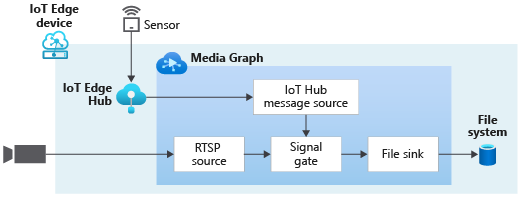
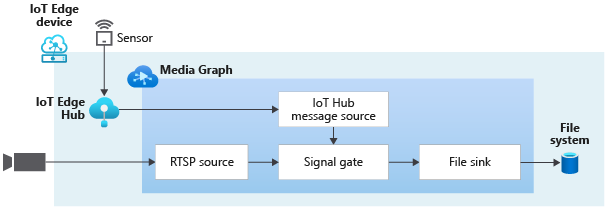
evr files (#142)
* evr files

* Add readme

* Update topology images

Changed region(s): [[0.0, 0.0, 1.0, 1.0]]

diff --git a/MediaGraph/topologies/evr-motion-assets-files/2.0/readme.md b/MediaGraph/topologies/evr-motion-assets-files/2.0/readme.md
@@ -1,0 +1,11 @@
+# Event-based video recording to assets and local files based on motion events
+
+This topology enables you perform event-based recording of video clips to the cloud as well as to the edge. The video from an RTSP-capable camera is analyzed for the presence of motion. When motion is detected, events are sent to a signal gate processor node which opens, allowing video to pass through to a file sink node as well as an asset sink node. As a result, new files (MP4 format) are created on the local file system of the Edge device, and new assets are created in your Azure Media Service account in the cloud. The recordings contain the frames where motion was detected.
+
+Note: The topology creates new MP4 files each time motion is detected. Over time, this can fill up the local filesystem. You should monitor the contents of the output directory and prune older files as necessary. With the help of the **maximumSizeMiB** parameter in the FileSink node, you can now configure the maximum disk space on the Edge device that LVA can use to store these MP4 files. If the alloted disk space limit is reached, LVA will start deleting the older clips and replace them with the new ones.
+
+<br>
+<p align="center">
+  <img src="./topology.png" title="Event-based video recording to assets and local files based on motion events"/>
+</p>
+<br>

diff --git a/MediaGraph/topologies/evr-motion-files/2.0/readme.md b/MediaGraph/topologies/evr-motion-files/2.0/readme.md
@@ -1,0 +1,11 @@
+# Event-based video recording to local files based on motion events
+
+This topology enables you to perform event-based recording. The video from an RTSP-capable camera is analyzed for the presence of motion. When motion is detected, events are sent to a signal gate processor node which opens, sending frames to a file sink node. As a result, new files (MP4 format) are created on the local file system of the Edge device, containing the frames where motion was detected. You can see how this topology is used in [this](https://docs.microsoft.com/azure/media-services/live-video-analytics-edge/detect-motion-record-video-clips-edge-devices-quickstart) quickstart.
+
+Note: The topology creates new MP4 files each time motion is detected. Over time, this can fill up the local filesystem. You should monitor the contents of the output directory and prune older files as necessary. With the help of the **maximumSizeMiB** parameter in the FileSink node, you can now configure the maximum disk space on the Edge device that LVA can use to store these MP4 files. If the alloted disk space limit is reached, LVA will start deleting the older clips and replace them with the new ones.
+
+<br>
+<p align="center">
+  <img src="./topology.png" title="Event-based video recording to local files based on motion events"/>
+</p>
+<br>

diff --git a/MediaGraph/topologies/evr-hubMessage-files/2.0/readme.md b/MediaGraph/topologies/evr-hubMessage-files/2.0/readme.md
@@ -1,0 +1,11 @@
+# Event-based recording of video to files based on messages sent via IoT Edge Hub
+
+This topology enables you to record video clips to the local file system of the edge device whenever an external sensor sends a message to the media graph. The diagram below shows a door sensor as an external module, but it could be any sensor or app sending the message.  
+
+Note: This topology is similar to the [topology](../evr-hubMessage-assets/2.0/topology.json) where you record video clips only, when desired objects are detected. To trigger recording of video with this topology, you will need to send events to the IoT Hub message source node. An option to accomplish this is to deploy another IoT Edge module which generates events. You would then configure message routing in the IoT Edge deployment manifest to send those events from the latter module to the IoT Hub message source node in this topology.
+
+<br>
+<p align="center">
+  <img src="./topology.png" title="Event-based recording of video to files based on messages sent via IoT Edge Hub"/>
+</p>
+<br>
